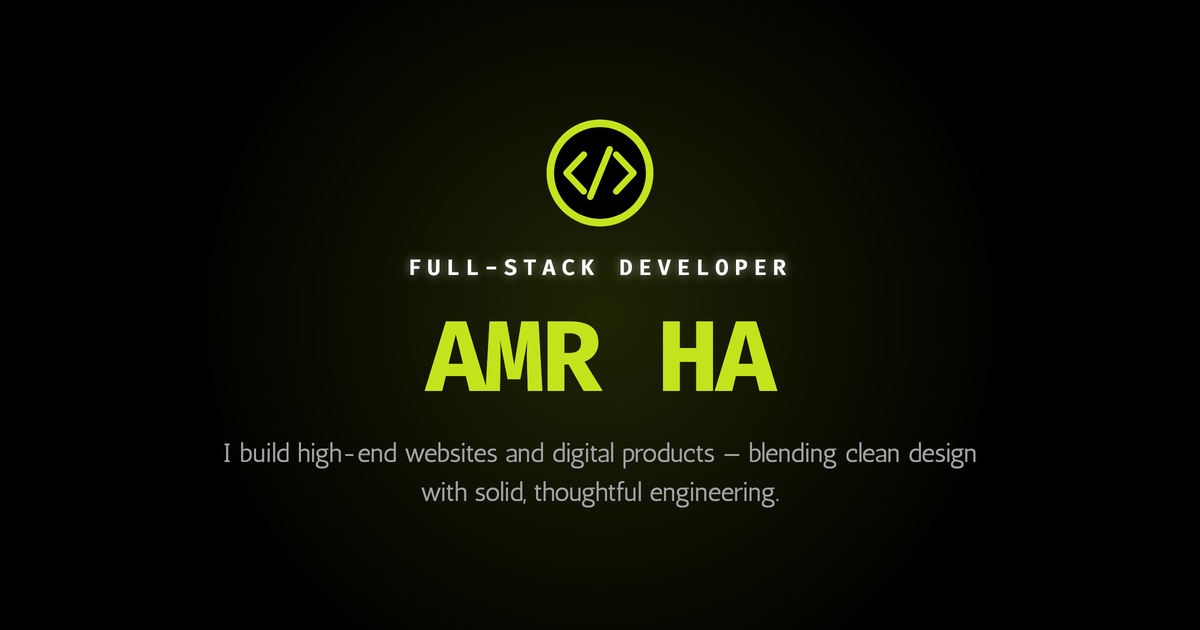
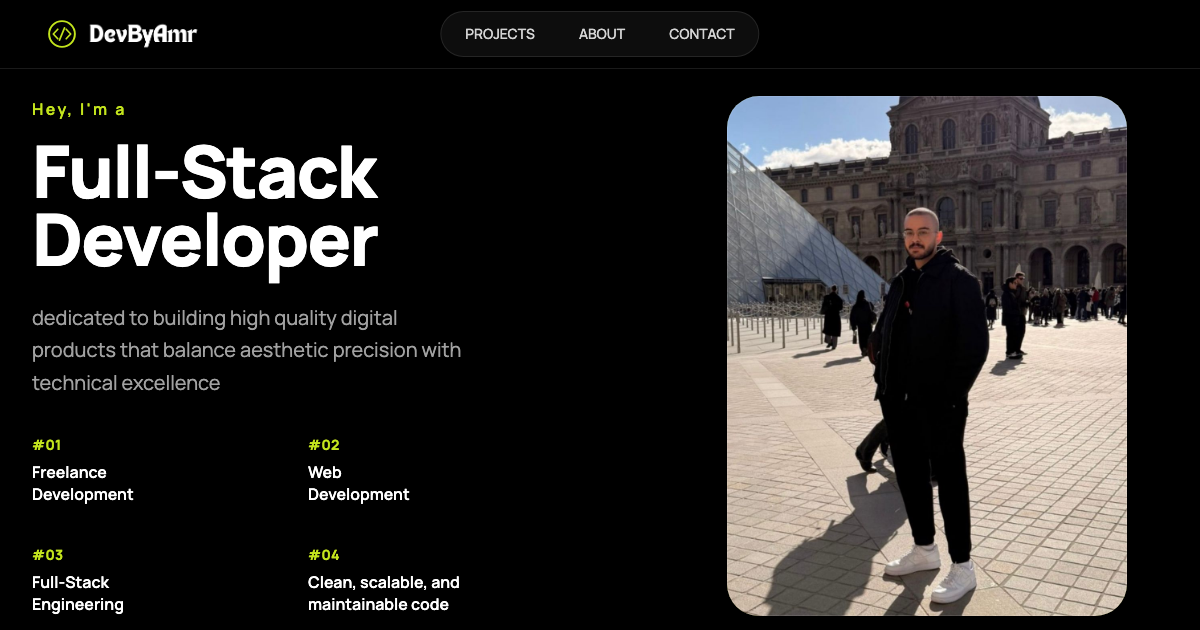
Polish hero/about/projects, fix word-spacing bug, refresh OG image
- Fine-tune hero mobile layout: role size, spacing, photo position
- Reorder About timeline chronologically, add more rotating quotes
- Fix BlurText collapsing spaces between words (flex blockification)
- Add "Show me more" link on the chefalaa project card
- Replace og-image.png with an actual site screenshot
- Round out tools list, update hero focus copy

diff --git a/src/lib/i18n.tsx b/src/lib/i18n.tsx
@@ -13,33 +13,39 @@ const translations = {
     "hero.greeting": "Hey, I'm a",
     "hero.role": "Full-Stack Developer",
     "hero.description":
-      "Full-stack developer dedicated to building high quality digital products that balance aesthetic precision with technical excellence",
+      "dedicated to building high quality digital products that balance aesthetic precision with technical excellence",
     "hero.cta": "Get in touch",
-    "hero.focus1": "Freelance Development",
+    "hero.focus1": "Freelance Work",
     "hero.focus2": "Web Development",
     "hero.focus3": "Full-Stack Engineering",
-    "hero.focus4": "Clean, Scalable Code",
+    "hero.focus4": "Clean, scalable, and maintainable code",
     "about.eyebrow": "Who I am",
     "about.title": "About Me",
     "about.intro":
-      "I'm Amr, an Information Systems student and freelance developer. I build websites and web applications with clean, well-structured code, and the dependability to see a problem through to the end",
+      "I'm Amr, an Information Systems graduate and freelance developer who turns ideas into real, working products, clean code, thoughtful design and the persistence to see every problem through to the end.",
     "about.tools": "Tools & Technologies",
     "about.trustedBy": "Brands I've Helped Shape",
     "about.pathEyebrow": "The Path Here",
-    "about.path1Title": "Freelance Developer",
-    "about.path1Subtitle": "Building clean, real-world web apps for real clients — present day",
+    "about.path4Title": "Swim & Basketball Coach",
+    "about.path4Subtitle": "Coaching kids long before any code",
     "about.path2Title": "Leadership Camp, Finland",
     "about.path2Subtitle": "Represented my community internationally",
     "about.path3Title": "Bar Supervisor",
-    "about.path3Subtitle": "Ran shift operations, learned to own a room",
-    "about.path4Title": "Swim & Basketball Coach",
-    "about.path4Subtitle": "Coaching kids before any of this",
+    "about.path3Subtitle": "Ran shift operations, learned to own a room and keep it moving under pressure",
     "about.path5Title": "Information Systems Student",
-    "about.path5Subtitle": "Foundation in Java, Python, SQL, and object-oriented programming",
+    "about.path5Subtitle": "Foundation in software sys - Java, Python, SQL, and object-oriented programming",
+    "about.path1Title": "Freelance Developer",
+    "about.path1Subtitle": "Building clean, real-world web apps for real clients to our present day",
     "about.quote1Text": "Code is the easy part. Showing up, owning it, and getting it right —",
     "about.quote1Highlight": "that's the job.",
     "about.quote2Text": "A strong foundation in Java, Python, SQL, and object-oriented programming — with a growing focus on",
     "about.quote2Highlight": "full-stack web development.",
+    "about.quote3Text": "I don't just write code that works | I write code that's easy to come back to. That's what",
+    "about.quote3Highlight": "\"clean\" actually means.",
+    "about.quote4Text": "Anyone can start a project. Finishing it, properly is",
+    "about.quote4Highlight": "the part that actually matters.",
+    "about.quote5Text": "I ask \"why\" before I ask \"how.\" Good code starts with",
+    "about.quote5Highlight": "understanding the problem.",
     "about.projectEyebrow": "Final College Project",
     "about.projectTitle": "Automate",
     "about.projectSubtitle": "My final project at university, explore the source on GitHub.",
@@ -54,13 +60,13 @@ const translations = {
     "projects.title": "Recent Projects",
     "projects.featured.title": "chefalaa.co.il",
     "projects.featured.description":
-      "A private chef website | from layout to motion, designed and built to show how the final product could look and feel.",
+      "A private chef website | from layout to motion, bilingual website designed and built end-to-end, with a custom admin panel behind the scenes.",
     "projects.featured2.title": "Locanda",
     "projects.featured2.description":
       "A restaurant website mockup | from layout to motion, designed and built to show how the final product could look and feel.",
     "projects.featured3.title": "Finance Consulting office",
     "projects.featured3.description":
-      "A financial consulting website mockup | from layout to motion, designed and built to show how the final product could look and feel.",
+      "A financial consulting website mockup | from layout to motion, designed to bring a professional and trust-first brand to life on screen.",
     "experience.eyebrow": "Where I've worked",
     "experience.title": "Experience",
     "contact.eyebrow": "Get in touch",
@@ -95,20 +101,26 @@ const translations = {
     "about.tools": "الأدوات والتقنيات",
     "about.trustedBy": "علامات تجارية ساهمت في صناعتها",
     "about.pathEyebrow": "مسيرتي حتى الآن",
-    "about.path1Title": "مطور مستقل",
-    "about.path1Subtitle": "أبني مواقع نظيفة لعملاء حقيقيين — حتى اليوم",
+    "about.path4Title": "مدرب سباحة وكرة سلة",
+    "about.path4Subtitle": "درّبت الأطفال قبل كل هذا",
     "about.path2Title": "معسكر قيادة، فنلندا",
     "about.path2Subtitle": "مثّلت مجتمعي على المستوى الدولي",
     "about.path3Title": "مسؤول بار",
     "about.path3Subtitle": "أدرت عمليات المناوبات وتعلمت القيادة",
-    "about.path4Title": "مدرب سباحة وكرة سلة",
-    "about.path4Subtitle": "درّبت الأطفال قبل كل هذا",
     "about.path5Title": "طالب نظم معلومات",
     "about.path5Subtitle": "أساس قوي في جافا وبايثون و SQL والبرمجة كائنية التوجه",
+    "about.path1Title": "مطور مستقل",
+    "about.path1Subtitle": "أبني مواقع نظيفة لعملاء حقيقيين — حتى اليوم",
     "about.quote1Text": "الكود هو الجزء السهل. الحضور، وتحمّل المسؤولية، وإتقان العمل —",
     "about.quote1Highlight": "هذا هو التحدي الحقيقي.",
     "about.quote2Text": "أساس قوي في جافا وبايثون و SQL والبرمجة كائنية التوجه — مع تركيز متنامٍ على",
     "about.quote2Highlight": "تطوير الويب المتكامل.",
+    "about.quote3Text": "لا أكتفي بكتابة كود يعمل — أكتب كودًا يسهل الرجوع إليه لاحقًا. هذا ما يعنيه فعلاً",
+    "about.quote3Highlight": "أن يكون الكود \"نظيفًا\".",
+    "about.quote4Text": "أي شخص يمكنه أن يبدأ مشروعًا. إنهاؤه — بإتقان — هو",
+    "about.quote4Highlight": "الجزء الذي يهم فعلاً.",
+    "about.quote5Text": "أسأل \"لماذا\" قبل أن أسأل \"كيف\". الكود الجيد يبدأ من",
+    "about.quote5Highlight": "فهم المشكلة.",
     "about.projectEyebrow": "مشروع التخرج الجامعي",
     "about.projectTitle": "Automate",
     "about.projectSubtitle": "مشروع تخرجي الجامعي — اطّلع على الكود على GitHub.",

diff --git a/src/components/sections/hero.tsx b/src/components/sections/hero.tsx
@@ -13,48 +13,49 @@ export function Hero() {
   const [imageFailed, setImageFailed] = useState(false)
   const { t, isRTL } = useLanguage()
   const arabicStyle = isRTL ? { fontFamily: ARABIC_FONT } : undefined
+  const roleText = isRTL ? t("hero.role") : t("hero.role").replace(" ", " \n ")
 
   return (
     <section
       id="home"
       dir={isRTL ? "rtl" : "ltr"}
-      className="relative min-h-screen flex items-center px-6 pt-20 sm:pt-24 pb-10 sm:pb-20"
+      className="relative min-h-screen flex items-center px-8 pt-10 sm:pt-24 pb-1 sm:pb-20"
     >
-      <div className="max-w-screen-xl mx-auto w-full grid grid-cols-1 lg:grid-cols-[1.1fr_0.9fr] gap-4 lg:gap-16 items-center">
+      <div className="max-w-screen-xl mx-auto w-full grid grid-cols-1 lg:grid-cols-[1.1fr_0.9fr] gap-6 sm:gap-10 lg:gap-16 items-center mt-16 sm:mt-0">
         {/* Text */}
-        <div className="text-start order-2 lg:order-1">
+        <div className="text-start order-2 lg:order-1 mt-6 sm:mt-0">
           <Reveal y={10}>
             <p
               style={{ color: ACCENT, ...arabicStyle }}
-              className="text-sm sm:text-base font-semibold tracking-[0.25em] uppercase mb-2 sm:mb-4"
+              className="text-sm sm:text-base font-semibold tracking-[0.15em] mb-6 sm:mb-4"
             >
               {t("hero.greeting")}
             </p>
           </Reveal>
 
           <BlurText
-            text={t("hero.role")}
+            text={roleText}
             delay={100}
             animateBy="words"
             direction="top"
             dir={isRTL ? "rtl" : "ltr"}
-            className="text-3xl min-[375px]:text-4xl sm:text-6xl md:text-7xl lg:text-7xl xl:text-8xl font-black leading-[0.95] tracking-tight text-white justify-start"
+            className="text-5xl min-[375px]:text-6xl sm:text-6xl md:text-7xl lg:text-7xl xl:text-8xl font-black leading-[0.95] tracking-tight text-white justify-start"
             style={arabicStyle}
           />
 
           <Reveal delay={200} y={12}>
             <p
               style={arabicStyle}
-              className="mt-4 sm:mt-7 max-w-md text-base sm:text-xl leading-snug sm:leading-relaxed text-neutral-400"
+              className="mt-7 sm:mt-7 max-w-[320px] sm:max-w-md text-sm sm:text-xl leading-snug sm:leading-relaxed text-neutral-400"
             >
               {t("hero.description")}
             </p>
           </Reveal>
 
-          <Reveal delay={350} y={12} className="mt-5 sm:mt-9">
+          <Reveal delay={350} y={12} className="mt-7 sm:mt-9">
             <div
               dir={isRTL ? "rtl" : "ltr"}
-              className="grid grid-cols-2 gap-x-8 gap-y-3 sm:gap-y-6 max-w-xs"
+              className="grid grid-cols-2 gap-x-8 sm:gap-x-10 gap-y-12 sm:gap-y-10 max-w-md sm:max-w-lg"
             >
               {focusAreas.map((key, i) => (
                 <div key={key} className="text-start">
@@ -62,10 +63,10 @@ export function Hero() {
                     #{String(i + 1).padStart(2, "0")}
                   </p>
                   <p
-                    style={arabicStyle}
-                    className="mt-1.5 text-sm sm:text-base font-semibold text-white leading-snug"
+                    style={{ ...arabicStyle, whiteSpace: !isRTL && i < 3 ? "pre-line" : undefined }}
+                    className="mt-1.5 text-base sm:text-base font-semibold text-white leading-snug"
                   >
-                    {t(key)}
+                    {!isRTL && i < 3 ? t(key).replace(" ", "\n") : t(key)}
                   </p>
                 </div>
               ))}
@@ -74,8 +75,8 @@ export function Hero() {
         </div>
 
         {/* Photo frame */}
-        <Reveal delay={150} className="order-1 lg:order-2 flex justify-center">
-          <div className="relative w-[130px] h-[163px] min-[375px]:w-[150px] min-[375px]:h-[188px] sm:w-[320px] sm:h-[400px] lg:w-full lg:max-w-[400px] lg:h-[520px] xl:max-w-[460px] xl:h-[580px] rounded-[2rem] overflow-hidden shadow-2xl bg-neutral-900">
+        <Reveal delay={150} className="order-1 lg:order-2 flex justify-center -mt-20 sm:mt-0">
+          <div className="relative w-[160px] h-[200px] min-[375px]:w-[180px] min-[375px]:h-[225px] sm:w-[320px] sm:h-[400px] lg:w-full lg:max-w-[400px] lg:h-[520px] xl:max-w-[460px] xl:h-[580px] rounded-[2rem] overflow-hidden shadow-2xl bg-neutral-900">
             {imageFailed ? (
               <div className="w-full h-full flex items-center justify-center">
                 <User className="w-1/3 h-1/3 text-neutral-600" strokeWidth={1.5} />

diff --git a/src/components/sections/about.tsx b/src/components/sections/about.tsx
@@ -15,6 +15,9 @@ const ACCENT = "#C3E41D"
 const quoteKeys: { textKey: TranslationKey; highlightKey: TranslationKey }[] = [
   { textKey: "about.quote1Text", highlightKey: "about.quote1Highlight" },
   { textKey: "about.quote2Text", highlightKey: "about.quote2Highlight" },
+  { textKey: "about.quote3Text", highlightKey: "about.quote3Highlight" },
+  { textKey: "about.quote4Text", highlightKey: "about.quote4Highlight" },
+  { textKey: "about.quote5Text", highlightKey: "about.quote5Highlight" },
 ]
 
 function QuoteRotator({
@@ -25,7 +28,7 @@ function QuoteRotator({
   const [index, setIndex] = useState(0)
 
   useEffect(() => {
-    const id = setInterval(() => setIndex((i) => (i + 1) % quotes.length), 3200)
+    const id = setInterval(() => setIndex((i) => (i + 1) % quotes.length), 7200)
     return () => clearInterval(id)
   }, [quotes.length])
 
@@ -51,11 +54,15 @@ const skills = [
   "Java",
   "Python",
   "SQL",
+  "HTML",
+  "CSS",
   "JavaScript",
   "TypeScript",
   "React",
   "Tailwind CSS",
-  "Git",
+  "AWS Services",
+  "Github",
+  "Microsoft office",
 ]
 
 const brands = [
@@ -72,11 +79,11 @@ const stats: { value: string; labelKey: TranslationKey }[] = [
 ]
 
 const timeline: { titleKey: TranslationKey; subtitleKey: TranslationKey; active?: boolean }[] = [
-  { titleKey: "about.path1Title", subtitleKey: "about.path1Subtitle", active: true },
+  { titleKey: "about.path4Title", subtitleKey: "about.path4Subtitle" },
   { titleKey: "about.path2Title", subtitleKey: "about.path2Subtitle" },
   { titleKey: "about.path3Title", subtitleKey: "about.path3Subtitle" },
-  { titleKey: "about.path4Title", subtitleKey: "about.path4Subtitle" },
   { titleKey: "about.path5Title", subtitleKey: "about.path5Subtitle" },
+  { titleKey: "about.path1Title", subtitleKey: "about.path1Subtitle", active: true },
 ]
 
 export function About() {

diff --git a/src/components/ui/blur-text.tsx b/src/components/ui/blur-text.tsx
@@ -44,21 +44,27 @@ export function BlurText({
 
   return (
     <p ref={ref} dir={dir} className={`inline-flex flex-wrap ${className}`} style={style}>
-      {segments.map((segment, i) => (
-        <span
-          key={i}
-          style={{
-            display: "inline-block",
-            filter: inView ? "blur(0px)" : "blur(10px)",
-            opacity: inView ? 1 : 0,
-            transform: inView ? "translateY(0)" : `translateY(${direction === "top" ? "-20px" : "20px"})`,
-            transition: `all 0.5s ease-out ${i * delay}ms`,
-          }}
-        >
-          {segment === " " ? " " : segment}
-          {animateBy === "words" && i < segments.length - 1 ? " " : ""}
-        </span>
-      ))}
+      {segments.map((segment, i) => {
+        if (segment === "\n") {
+          return <span key={i} className="basis-full h-0" aria-hidden="true" />
+        }
+        const nextIsBreak = segments[i + 1] === "\n"
+        return (
+          <span
+            key={i}
+            style={{
+              display: "inline-block",
+              filter: inView ? "blur(0px)" : "blur(10px)",
+              opacity: inView ? 1 : 0,
+              transform: inView ? "translateY(0)" : `translateY(${direction === "top" ? "-20px" : "20px"})`,
+              transition: `all 0.5s ease-out ${i * delay}ms`,
+            }}
+          >
+            {segment === " " ? " " : segment}
+            {animateBy === "words" && i < segments.length - 1 && !nextIsBreak ? " " : ""}
+          </span>
+        )
+      })}
     </p>
   )
 }

diff --git a/src/components/ui/project-showcase.tsx b/src/components/ui/project-showcase.tsx
@@ -1,4 +1,5 @@
 import { useLayoutEffect, useRef, useState } from "react"
+import { ArrowUpRight } from "lucide-react"
 import { Reveal } from "@/components/ui/reveal"
 
 const ACCENT = "#C3E41D"
@@ -9,6 +10,7 @@ interface ProjectItem {
   description: string
   bgText?: string
   startTime?: number
+  url?: string
 }
 
 interface ProjectShowcaseProps {
@@ -83,6 +85,17 @@ function ProjectCard({ item, delay }: { item: ProjectItem; delay: number }) {
           <div className="relative text-center max-w-lg">
             <h3 className="text-lg sm:text-xl font-bold text-white">{item.title}</h3>
             <p className="mt-1.5 text-sm sm:text-base text-neutral-400">{item.description}</p>
+            {item.url && (
+              <a
+                href={item.url}
+                target="_blank"
+                rel="noopener noreferrer"
+                className="group/link mt-5 inline-flex items-center gap-1.5 rounded-full border border-white/15 bg-white/5 px-5 py-2 text-sm font-semibold text-white hover:bg-white/10 hover:border-white/25 transition-colors duration-300"
+              >
+                Show me more
+                <ArrowUpRight className="w-4 h-4 transition-transform duration-300 group-hover/link:translate-x-0.5 group-hover/link:-translate-y-0.5" />
+              </a>
+            )}
           </div>
         </div>
       </div>

diff --git a/index.html b/index.html
@@ -12,7 +12,7 @@
     <title>DevByAmr</title>
     <meta
       name="description"
-      content="I build high-end websites and digital products, blending clean design with solid and thoughtful engineering."
+      content="dedicated to building high quality digital products that balance aesthetic precision with technical excellence"
     />
 
     <!-- Open Graph -->

diff --git a/src/components/sections/projects.tsx b/src/components/sections/projects.tsx
@@ -30,6 +30,7 @@ export function Projects() {
             description: t("projects.featured.description"),
             bgText: "CHEF ALAA",
             startTime: 6,
+            url: "https://www.chefalaa.co.il/",
           },
           {
             videoSrc: "/videos/locanda-mockup-720.mp4",
